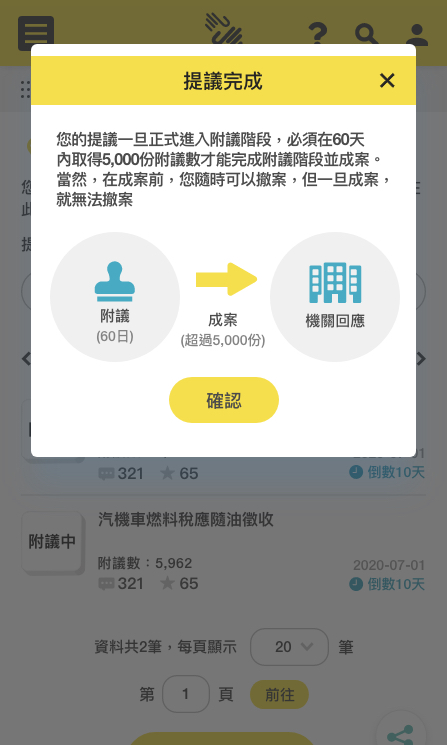
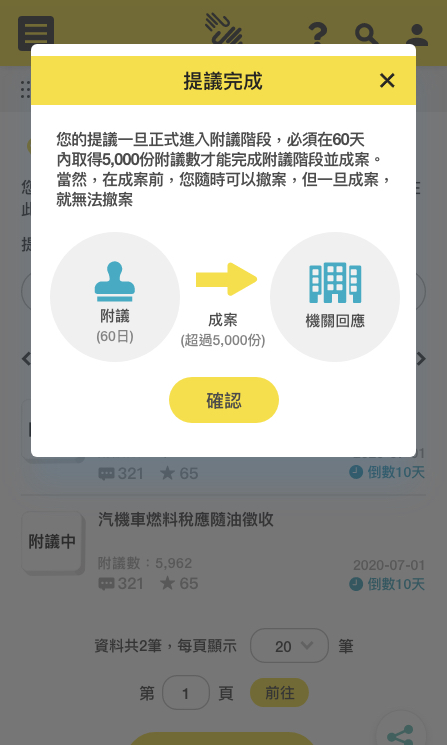
0126-new-13

diff --git a/proposal-complete.html b/proposal-complete.html
@@ -4,7 +4,7 @@
 
 
 <body style="margin: 0px;">
-	<div style="background-image:url(../join/img/想提議-提案成功.jpg);background-repeat:no-repeat;background-position:top center;width:100%;height:1336px;"></div>
+	<div style="background-image:url(../join/img/proposalcomplete.jpg);background-repeat:no-repeat;background-position:top center;width:100%;height:1336px;"></div>
 </body>
 
 </html>
